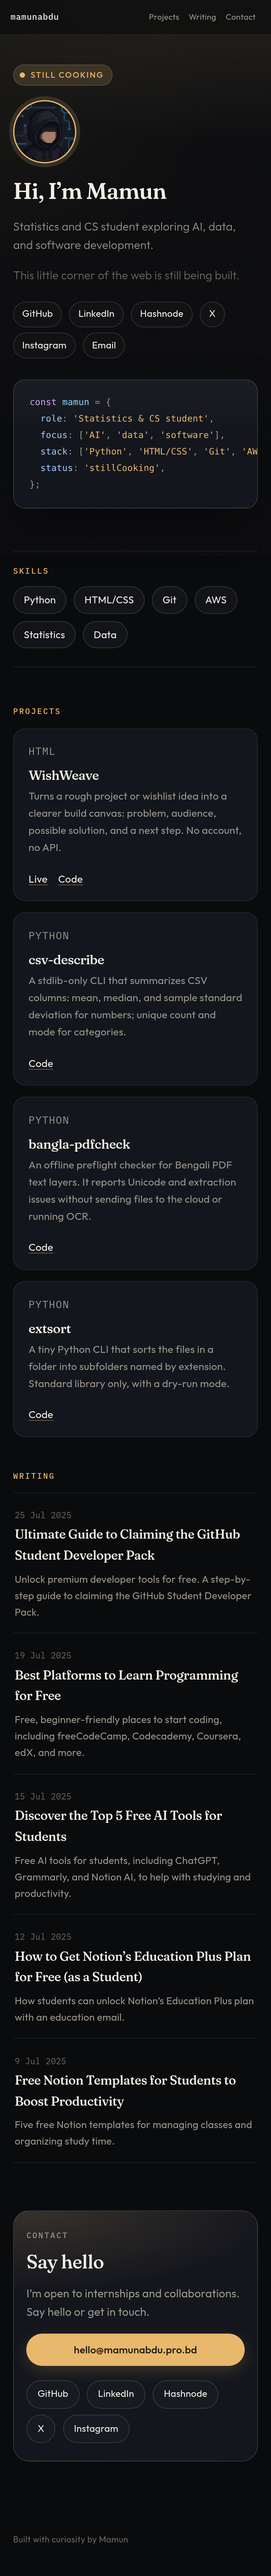
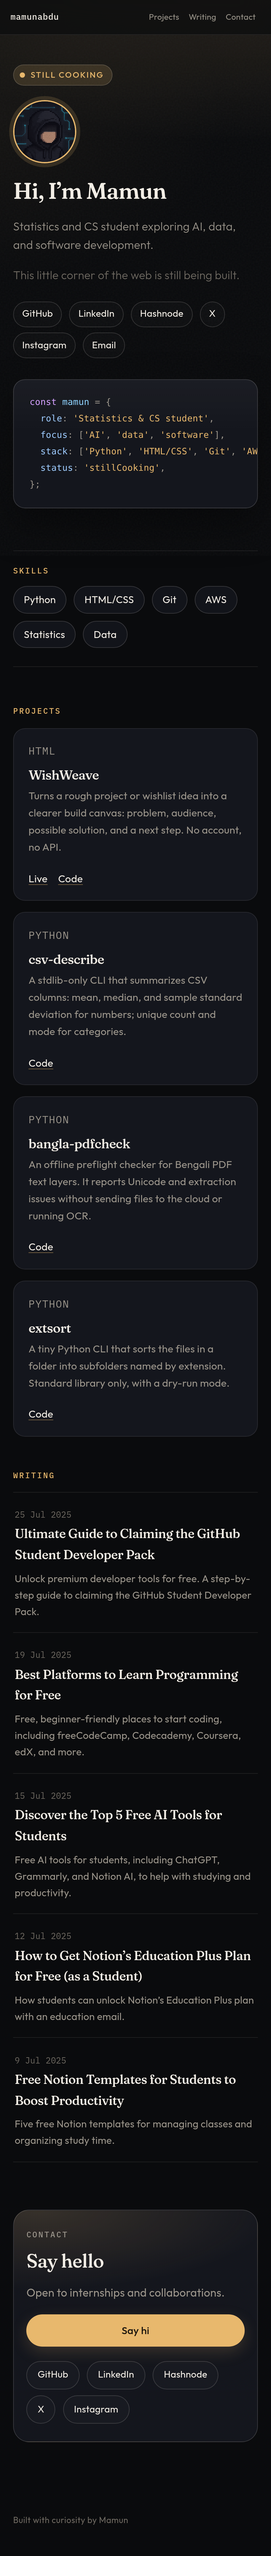
Hide the email address and shorten the contact line
Contact copy is now one sentence, the primary button says "Say hi,"
and the address stays only in mailto links.

diff --git a/index.html b/index.html
@@ -195,9 +195,9 @@
       <p class="eyebrow">Contact</p>
       <h2>Say hello</h2>
       <p>
-        I’m open to internships and collaborations. Say hello or get in touch.
+        Open to internships and collaborations.
       </p>
-      <a class="email-btn" href="mailto:hello@mamunabdu.pro.bd">hello@mamunabdu.pro.bd</a>
+      <a class="email-btn" href="mailto:hello@mamunabdu.pro.bd">Say hi</a>
       <div class="socials socials-lg" aria-label="Social links">
         <a href="https://github.com/mamun-abdu" target="_blank" rel="noopener noreferrer">GitHub</a>
         <a href="https://linkedin.com/in/mamunabdu" target="_blank" rel="noopener noreferrer">LinkedIn</a>
